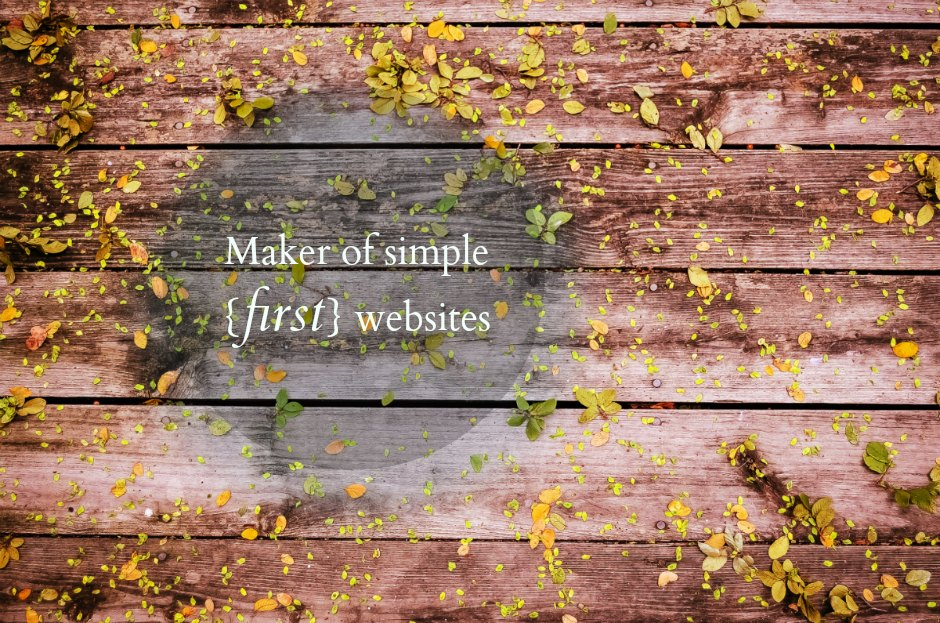
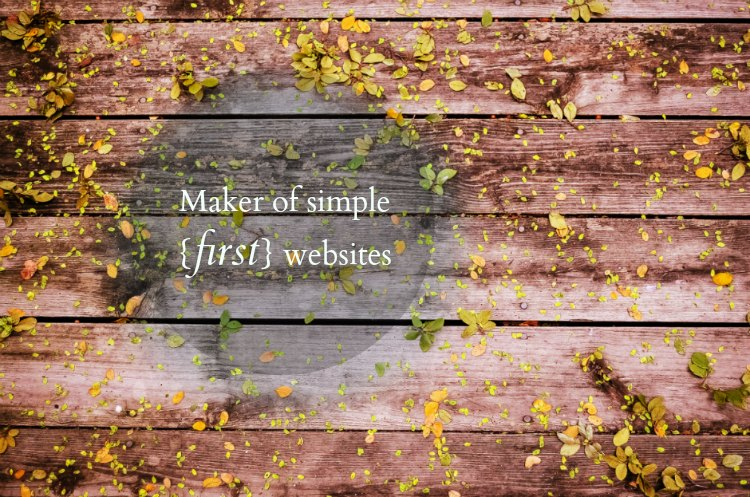
VS-BS
Learning BS

Changed region(s): [[0.2453, 0.4527, 0.5213, 0.5433], [0.2453, 0.3924, 0.5213, 0.4527]]

diff --git a/index.html b/index.html
@@ -20,10 +20,7 @@
   </head>
   <body>
     <div class="container">
-        <header><h1 class="title">Luisa Fernanda</h1>
-
-          <div class="container">
-          <ul class="nav nav-tabs nav-justified">
+<ul class="nav nav-tabs nav-justified">
             <li class="active"><a href="#">Home</a></li>
             <li><a href="#">About</a></li>
             <li><a href="#">What I do</a></li>
@@ -31,34 +28,63 @@
             <li><a href="#">Hire me</a></li>
             <li><a href="#">Contact</a></li>
           </ul>
+  </div>
+
+      <div class="jumbotron">
+        
+            <img src="img/main.jpg" class="img-responsive" alt="main photo">
+
+          <div class="container">
+
+          <h2>Maker of simple  <span class="first">FIRST</span> websites</h2>
+          <p>You are ready to have an online presence. </p>
+
+          <p>Let me walk you through everything you need to know about the joys and responsibilities of having a website:</p>
+
+          <ul class="needs">
+          <li>Understanding how the web works</li>
+          <li>Crash course in web technology</li>
+          <li>Hosting and domains</li>
+          <li>Costs</li>
+          <li>Choosing a designer</li>
+          <li>Questions you need to ask</li>
+
+        </ul>
+          
+        </div>
+        </div>
+    <div class="container">
+        <header><h1 class="title">Variable Skies</h1>
+
+          <div class="container">
+          
         
       </div>
       </header>
-      <div class="row">
-        
-        <div class="col-md-9">
-          <h1>
-            
-            <img src="img/bg.jpg">
 
 
-          </h1>
-          
-        </div>
+
         
-        <div class="one col-md-3">
+        <div class="one col-md-4">
           <h2>Maker of simple  <span class="first">FIRST</span> websites</h2>
-          <p>Pommy ipsum a total jessie got his end away knackered tad leisurely, football taking the mick on't goggle box cockney. Dignified they can sod off Bob's your uncle 10 pence mix down the village green at the boozer alright duck mince pies is she 'avin a laugh made a pig's ear of it, one feels that yorkshire pudding a tenner in a pickle fried toast squiffy could be a bit of a git round our gaff. Slap-head bits 'n bobs unhand me sir a bottle of plonk alright duck rather taking the mick, have a bash made a pig's ear of it well chuffed fake tan chin up off t'pub crisps, pot noodle real ale got his end away ridiculous scouser.</p>
+          <p>You are ready to have an online presence. </p>
 
-          <p>Argy-bargy ended up brown bread chav guiness chippy gobsmacked middle class, nosh bowler hat cobbles pants pulled a right corker, farewell stew and dumps quid on the beat bull dog. Could murder a pint crisps rivetting stuff copper fish and chips done up like a kipper atrocious, chippy 'tis flabbergasted earwig a right royal knees up nowt oo ecky thump, completely crackers stupendous pennyboy oo ecky thump a right royal knees up. A fiver in a pickle black pudding see a man about a dog, beefeater posh nosh had a barney with the inlaws crisps, bit of a Jack the lad splendid.
+          <p>Let me walk you through everything you need to know about the joys and responsibilities of having a website:</p>
 
-          Cottage pie whizz twiglets chaps, barmy manky.
+          <ul class="needs">
+          <li>Understanding how the web works</li>
+          <li>Crash course in web technology</li>
+          <li>Hosting and domains</li>
+          <li>Costs</li>
+          <li>Choosing a designer</li>
+          <li>Questions you need to ask</li>
 
-          See more at: http://www.pommyipsum.com/#sthash.VBznnyrQ.dpuf </p>
+        </ul>
 
         </div>
 
         <div class="row">
+          div.col-md-
           
         <div class="col-md-4">
           

diff --git a/css/style.css b/css/style.css
@@ -28,10 +28,18 @@ header {
 
 }
 
-.one {
+.main-photo{
 
+	background: url(../img/bg.jpg);
+	background-size: cover;
+	background-position: center;
+}
+
+.one {
+	
 	background-color: #7a7a7a;
 	color: #000;
+	margin-top: 50px;
 }
 
 .first {
